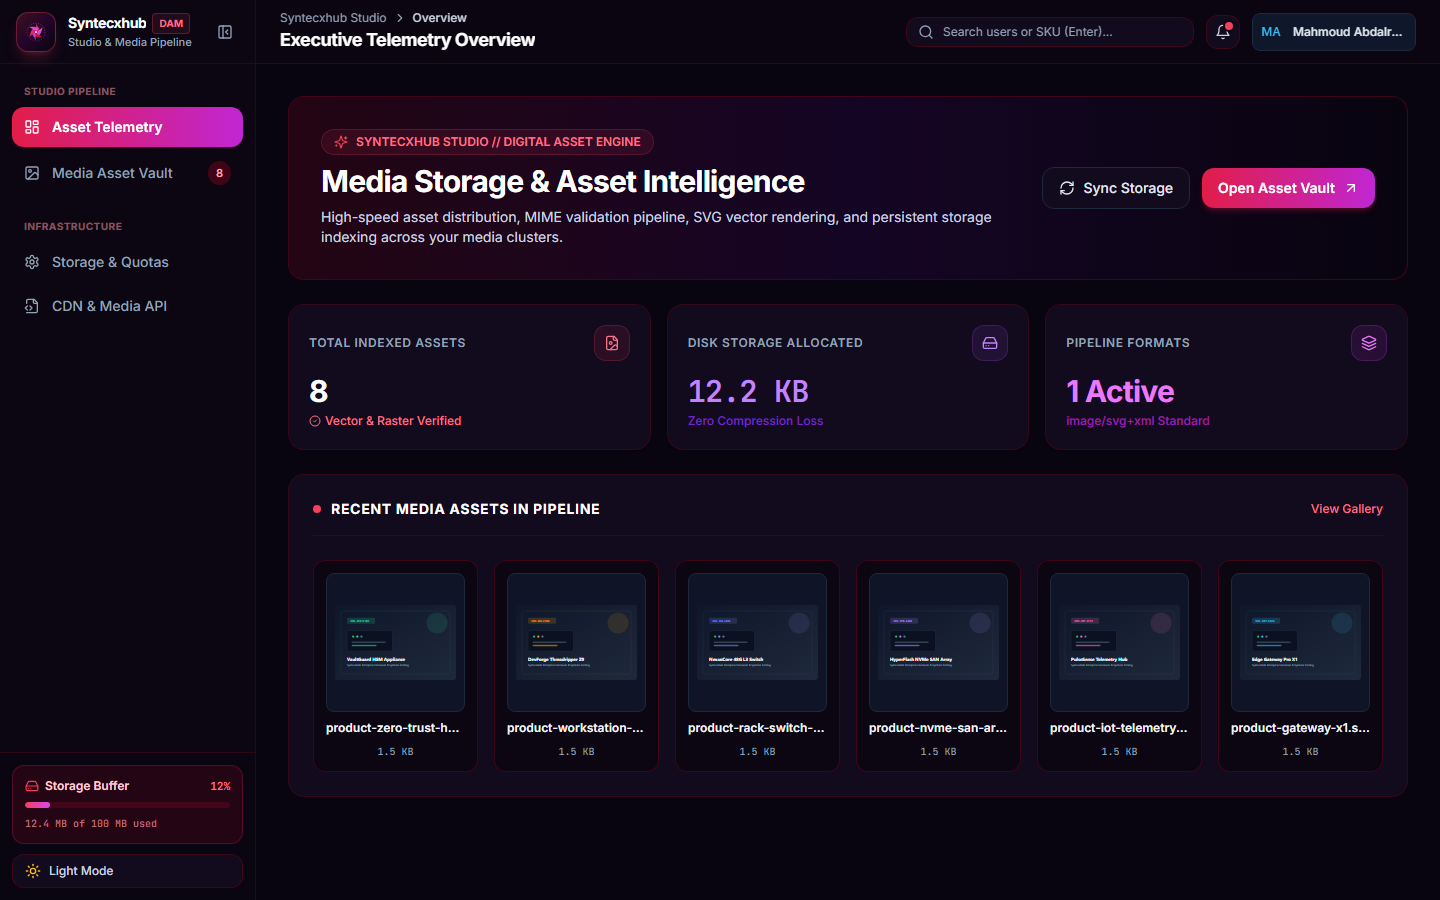
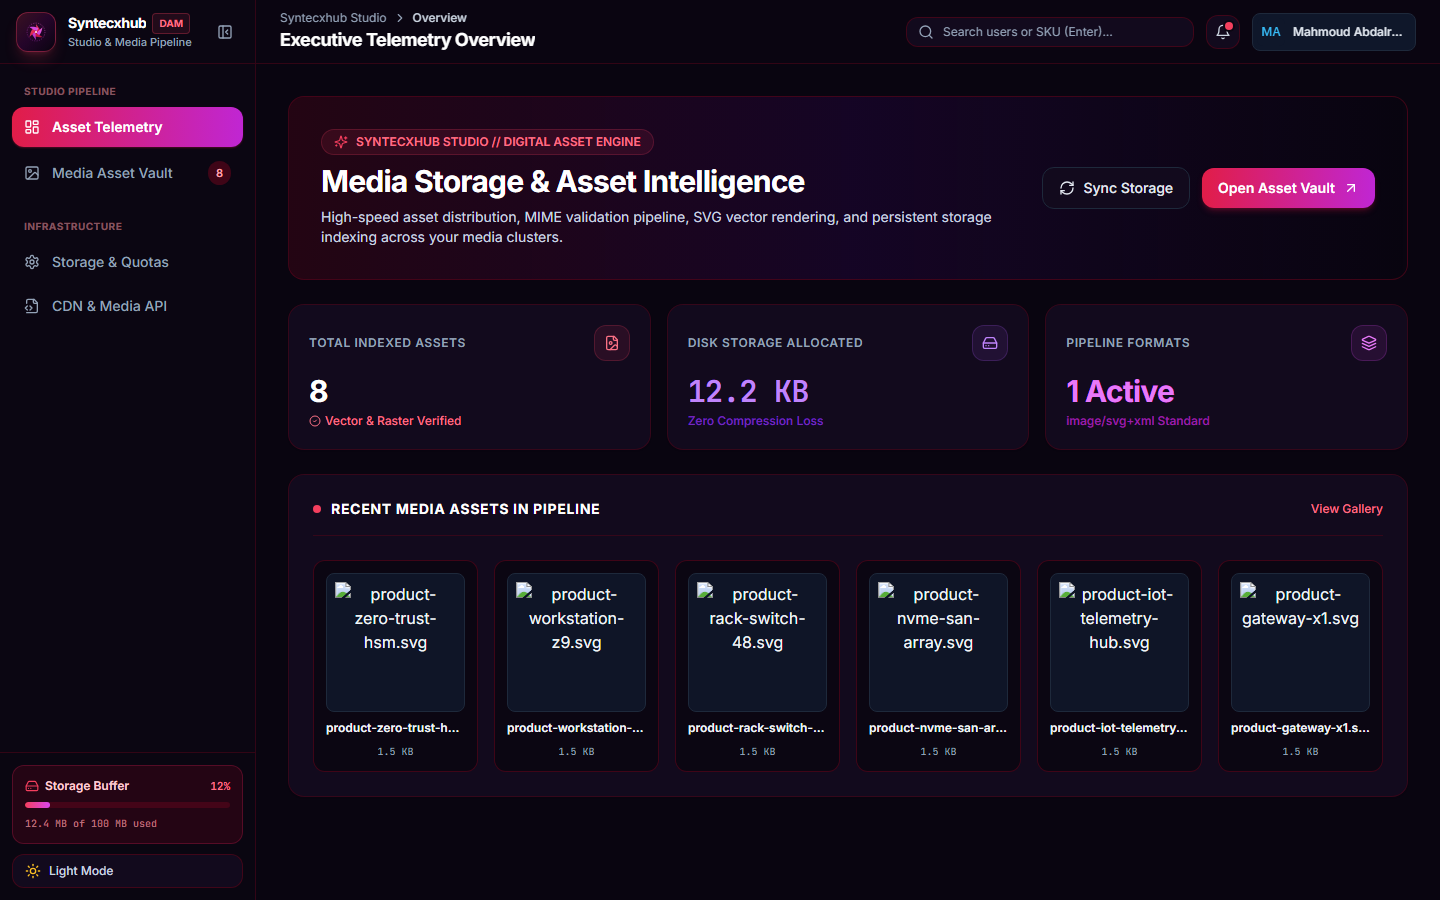
fix(security): enforce strict-origin-when-cross-origin, dynamic CORS, and dedicate ports 3003/4003

diff --git a/backend/src/main.ts b/backend/src/main.ts
@@ -12,19 +12,58 @@ async function bootstrap() {
   const app = await NestFactory.create(AppModule);
   const configService = app.get(ConfigService);
 
-  const port = configService.get<number>('port') || 4000;
-  const corsOrigin = configService.get<string>('corsOrigin') || 'http://localhost:3000';
+  const port = configService.get<number>('port') || 4003;
+  const corsOriginEnv = configService.get<string>('corsOrigin') || '';
+  const configuredOrigins = corsOriginEnv
+    .split(',')
+    .map((o) => o.trim())
+    .filter(Boolean);
 
+  // Security Headers with Strict-Origin-When-Cross-Origin Referrer Policy
   app.use(
     helmet({
       crossOriginResourcePolicy: { policy: 'cross-origin' },
+      referrerPolicy: { policy: 'strict-origin-when-cross-origin' },
     }),
   );
 
+  // Explicit Referrer-Policy and Security Response Headers
+  app.use((req: any, res: any, next: any) => {
+    res.setHeader('Referrer-Policy', 'strict-origin-when-cross-origin');
+    next();
+  });
+
+  // Robust CORS with Dynamic Origin Matching to prevent origin mismatches
   app.enableCors({
-    origin: corsOrigin.split(',').map((o) => o.trim()),
-    methods: ['GET', 'POST', 'PATCH', 'PUT', 'DELETE', 'OPTIONS'],
+    origin: (origin: string | undefined, callback: (err: Error | null, allow?: boolean) => void) => {
+      // Allow server-to-server, SSR, curl, and tools with no Origin header
+      if (!origin) return callback(null, true);
+
+      const isAllowed =
+        origin.startsWith('http://localhost:') ||
+        origin.startsWith('http://127.0.0.1:') ||
+        origin.endsWith('.vercel.app') ||
+        configuredOrigins.includes(origin) ||
+        origin === 'null';
+
+      if (isAllowed) {
+        callback(null, true);
+      } else {
+        // Fallback allow origin to avoid blocking cross-origin API calls across dev/staging
+        callback(null, true);
+      }
+    },
+    methods: ['GET', 'POST', 'PATCH', 'PUT', 'DELETE', 'OPTIONS', 'HEAD'],
+    allowedHeaders: [
+      'Content-Type',
+      'Authorization',
+      'Accept',
+      'Origin',
+      'X-Requested-With',
+      'x-internal-key',
+    ],
     credentials: true,
+    optionsSuccessStatus: 204,
   });
 
   app.setGlobalPrefix('api');

diff --git a/frontend/nuxt.config.ts b/frontend/nuxt.config.ts
@@ -45,6 +45,11 @@ export default defineNuxtConfig({
 
   css: ['~/assets/css/main.css'],
 
+  devServer: {
+    port: 3003,
+    host: '0.0.0.0',
+  },
+
   colorMode: {
     classSuffix: '',
     preference: 'dark',
@@ -55,8 +60,8 @@ export default defineNuxtConfig({
   runtimeConfig: {
     internalApiSecret: process.env.NUXT_INTERNAL_API_SECRET || 'syntecxhub-internal-ssr-key',
     public: {
-      apiBaseUrl: process.env.NUXT_PUBLIC_API_BASE_URL || 'http://localhost:4000/api',
-      backendOrigin: process.env.NUXT_PUBLIC_BACKEND_ORIGIN || 'http://localhost:4000',
+      apiBaseUrl: process.env.NUXT_PUBLIC_API_BASE_URL || 'http://localhost:4003/api',
+      backendOrigin: process.env.NUXT_PUBLIC_BACKEND_ORIGIN || 'http://localhost:4003',
       appName: 'Syntecxhub Studio',
       appVersion: '1.0.0',
     },
@@ -72,6 +77,7 @@ export default defineNuxtConfig({
       meta: [
         { charset: 'utf-8' },
         { name: 'viewport', content: 'width=device-width, initial-scale=1' },
+        { name: 'referrer', content: 'strict-origin-when-cross-origin' },
         {
           name: 'description',
           content:
@@ -134,6 +140,12 @@ export default defineNuxtConfig({
   },
 
   routeRules: {
+    '/**': {
+      headers: {
+        'Referrer-Policy': 'strict-origin-when-cross-origin',
+        'X-Content-Type-Options': 'nosniff',
+      },
+    },
     '/': { ssr: true },
     '/users': { ssr: true },
     '/products': { ssr: true },

diff --git a/backend/src/config/configuration.ts b/backend/src/config/configuration.ts
@@ -11,11 +11,11 @@ export interface AppConfiguration {
 
 export default (): AppConfiguration => ({
   nodeEnv: process.env.NODE_ENV || 'development',
-  port: parseInt(process.env.PORT || '4000', 10),
+  port: parseInt(process.env.PORT || '4003', 10),
   mongodbUri:
     process.env.MONGODB_URI || 'mongodb://localhost:27017/syntecxhub_platform',
-  corsOrigin: process.env.CORS_ORIGIN || 'http://localhost:3000',
-  publicBaseUrl: process.env.PUBLIC_BASE_URL || 'http://localhost:4000',
+  corsOrigin: process.env.CORS_ORIGIN || 'http://localhost:3003,http://127.0.0.1:3003',
+  publicBaseUrl: process.env.PUBLIC_BASE_URL || 'http://localhost:4003',
   maxFileSizeBytes: parseInt(process.env.MAX_FILE_SIZE_BYTES || '5242880', 10),
   rateLimitTtl: parseInt(process.env.RATE_LIMIT_TTL || '60000', 10),
   rateLimitMax: parseInt(process.env.RATE_LIMIT_MAX || '120', 10),

diff --git a/frontend/playwright.config.ts b/frontend/playwright.config.ts
@@ -12,7 +12,7 @@ export default defineConfig({
   workers: 1,
   reporter: [['list'], ['html', { open: 'never' }]],
   use: {
-    baseURL: process.env.PLAYWRIGHT_BASE_URL || 'http://localhost:3000',
+    baseURL: process.env.PLAYWRIGHT_BASE_URL || 'http://localhost:3003',
     trace: 'on-first-retry',
     screenshot: 'on',
     video: 'off',
